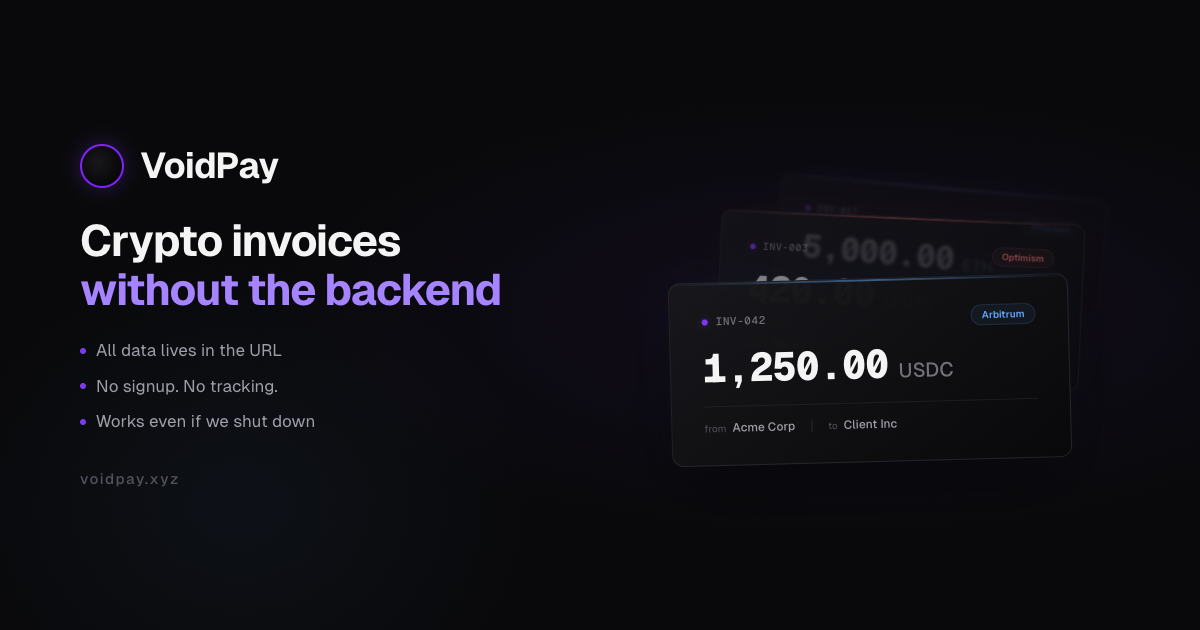
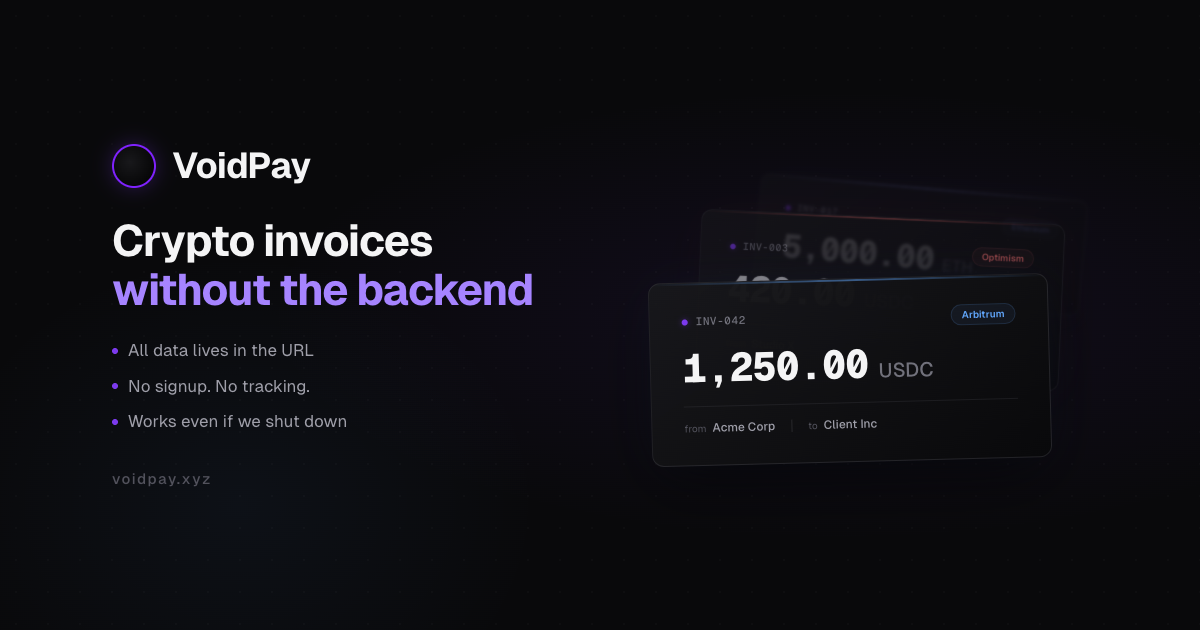
fix(og): adjust branding OG layout — move halves closer together

diff --git a/src/app/og-image/page.tsx b/src/app/og-image/page.tsx
@@ -61,7 +61,7 @@ function BrandingOG() {
       />
 
       {/* Left side — text content */}
-      <div className="relative z-10 flex flex-1 flex-col justify-center pl-20 pr-8">
+      <div className="relative z-10 flex flex-1 flex-col justify-center pl-28 pr-0">
         {/* Logo mark + wordmark */}
         <div className="mb-6 flex items-center gap-4">
           <div
@@ -116,7 +116,7 @@ function BrandingOG() {
       {/* Right side — cascading invoice cards (centered vertically) */}
       <div className="relative flex flex-1 items-center justify-center">
         {/* Back card — Ethereum */}
-        <div className="absolute" style={{ top: '50%', right: 60, transform: 'translateY(-100%)', opacity: 0.3, filter: 'blur(1.5px)' }}>
+        <div className="absolute" style={{ top: '50%', right: 80, transform: 'translateY(-100%)', opacity: 0.3, filter: 'blur(1.5px)' }}>
           <OGInvoiceCard
             id="INV-017"
             amount="5000.00"
@@ -127,7 +127,7 @@ function BrandingOG() {
         </div>
 
         {/* Middle card — Optimism */}
-        <div className="absolute" style={{ top: '50%', right: 100, transform: 'translateY(-58%)', opacity: 0.55, filter: 'blur(0.5px)' }}>
+        <div className="absolute" style={{ top: '50%', right: 120, transform: 'translateY(-58%)', opacity: 0.55, filter: 'blur(0.5px)' }}>
           <OGInvoiceCard
             id="INV-003"
             amount="420.00"
@@ -139,7 +139,7 @@ function BrandingOG() {
         </div>
 
         {/* Front card — Arbitrum */}
-        <div className="absolute" style={{ top: '50%', right: 130, transform: 'translateY(-20%)' }}>
+        <div className="absolute" style={{ top: '50%', right: 150, transform: 'translateY(-20%)' }}>
           <OGInvoiceCard
             id="INV-042"
             amount="1250.00"
